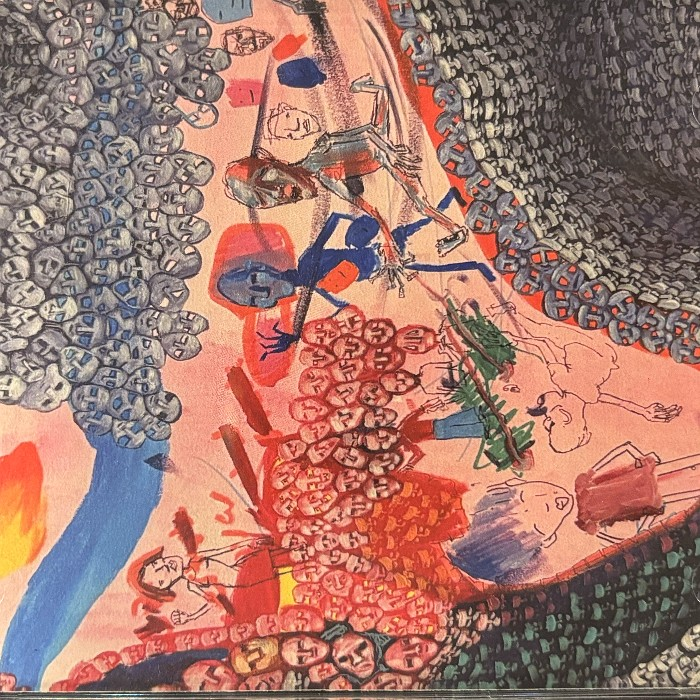
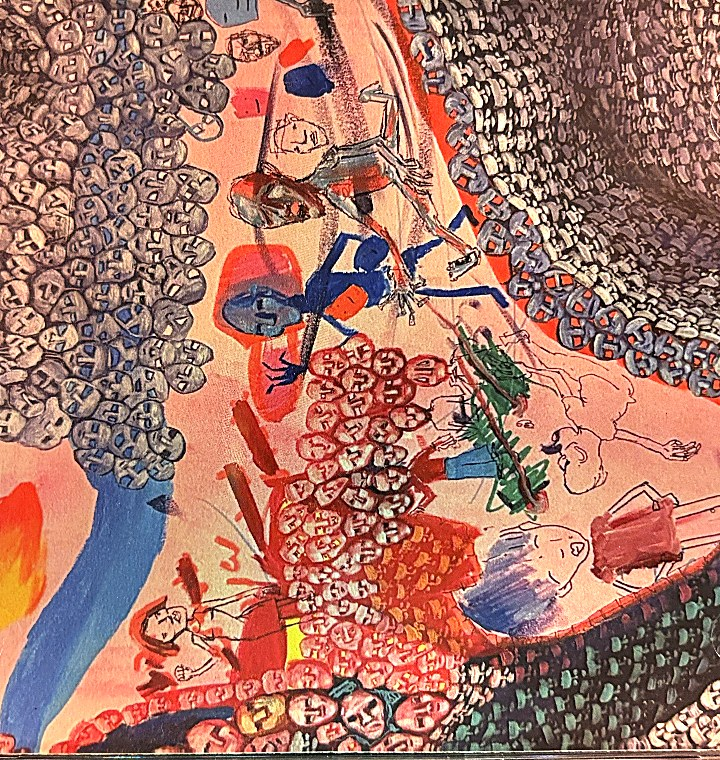
The CD stands up, the sleeve is sharp, and the mounds are sand again
- A CD case is 125 mm across by 142 mm TALL. Having those the other way
  round laid the case on its side and turned both faces of artwork through
  ninety degrees. Both inserts are upright now, at the aspect measured off
  the photographs.
- The photographs are shot through the case's own clear lid, so each
  carried a broad sheen across it and the sleeve rendered as a washed-out
  smear. Dividing each by a heavily blurred copy of itself takes the
  low-frequency lighting out and leaves the ink; with a gentle S-curve and
  an unsharp pass on top the artwork reads as it does in the photo.
- The mounds went too far into brown. Back to warm tan against the beach's
  cold blue -- turned sand, which is what they are.

diff --git a/models/cd-case.js b/models/cd-case.js
@@ -16,7 +16,10 @@ import * as THREE from 'three';
  *
  * Metres, +Y up, +Z out of the front face. */
 
-const W = 0.142, H = 0.125, D = 0.0104;      // the real case, to the millimetre
+/* A CD case STANDS UP: 125 mm across by 142 mm tall by 10 mm thick. This
+ * had them the other way round, which laid the whole thing on its side and
+ * turned both faces of artwork through ninety degrees. */
+const W = 0.125, H = 0.142, D = 0.0104;      // the real case, to the millimetre
 
 // --------------------------------------------------------------- textures
 const loader = new THREE.TextureLoader();
@@ -71,15 +74,15 @@ export function makeCdCase() {
    * the scene's own lighting as well left the sleeve muddy at night and
    * washed out under the examine lamps. `MeshBasicMaterial` shows the
    * picture as it is, which is what you want of a thing held up to a face. */
-  const booklet = 0.1195;                      // a CD booklet is 120 mm square
-  const front = new THREE.Mesh(new THREE.PlaneGeometry(booklet, booklet),
+  // both inserts upright, at the aspect measured off the photographs
+  const front = new THREE.Mesh(new THREE.PlaneGeometry(0.1185, 0.1251),
     new THREE.MeshBasicMaterial({ map: art('assets/cd-front.jpg') }));
-  front.position.z = t - 0.0011;
+  front.position.set(0.0018, 0.0026, t - 0.0011);
   g.add(front);
 
-  const back = new THREE.Mesh(new THREE.PlaneGeometry(W - 0.004, H - 0.004),
+  const back = new THREE.Mesh(new THREE.PlaneGeometry(0.1205, 0.1305),
     new THREE.MeshBasicMaterial({ map: art('assets/cd-back.jpg') }));
-  back.position.z = -t + 0.0012; back.rotation.y = Math.PI;
+  back.position.set(-0.0018, 0.0022, -t + 0.0012); back.rotation.y = Math.PI;
   g.add(back);
 
   // --- the tray the disc sits in, seen through the clear lid -------------
@@ -121,9 +124,9 @@ export function makeCdCase() {
     new THREE.MeshBasicMaterial({ map: spineTex }));
   spine.position.x = -W / 2 + 0.0011;
   g.add(spine);
-  for (let i = 0; i < 7; i++) {
-    const tooth = new THREE.Mesh(new THREE.BoxGeometry(0.0026, 0.0075, D * 0.7), black);
-    tooth.position.set(-W / 2 + 0.0012, -H / 2 + 0.012 + i * 0.0165, 0);
+  for (let i = 0; i < 8; i++) {
+    const tooth = new THREE.Mesh(new THREE.BoxGeometry(0.0026, 0.0072, D * 0.7), black);
+    tooth.position.set(-W / 2 + 0.0012, -H / 2 + 0.013 + i * 0.0165, 0);
     g.add(tooth);
   }
 

diff --git a/main.js b/main.js
@@ -5866,9 +5866,9 @@ function finishExtraction() {
  * differently, which is most of what makes it read as loose), the colour
  * is earth rather than sand, and the rim is broken by clods lying round
  * it rather than by a circle drawn on the beach. */
-const moundMat = new THREE.MeshStandardMaterial({ color: 0x6d5c47, roughness: 1, flatShading: true, emissive: 0x241d13 });
-const clodMat = new THREE.MeshStandardMaterial({ color: 0x554839, roughness: 1, flatShading: true, emissive: 0x150f0a });
-const clodMatDk = new THREE.MeshStandardMaterial({ color: 0x42382c, roughness: 1, flatShading: true, emissive: 0x0f0b07 });
+const moundMat = new THREE.MeshStandardMaterial({ color: 0x9c8862, roughness: 1, flatShading: true, emissive: 0x37301d });
+const clodMat = new THREE.MeshStandardMaterial({ color: 0x8d7a58, roughness: 1, flatShading: true, emissive: 0x2c2617 });
+const clodMatDk = new THREE.MeshStandardMaterial({ color: 0x776748, roughness: 1, flatShading: true, emissive: 0x211c12 });
 function lumpyDome(r, hy, seed) {
   const g = new THREE.SphereGeometry(r, 11, 6, 0, Math.PI * 2, 0, Math.PI * 0.5);
   g.scale(1, hy, 1);

diff --git a/CLAUDE.md b/CLAUDE.md
@@ -688,9 +688,15 @@ happen to dig — the same rule the glowstick's `mounds[0]` uses).
 clear lid and shell, black tray, the disc, hinge teeth down the spine, and
 the inserts front and back. **The sleeve is the OWNER'S OWN ARTWORK** —
 photographed, then rectified out of the three reference shots by a
-four-point perspective transform (`assets/cd-front.jpg` square, as a booklet
-is; `cd-back.jpg` wider than tall; `cd-spine.jpg` a strip rotated onto the
-edge). Two things that matter: the inserts take **`MeshBasicMaterial`**,
+four-point perspective transform. **A CD case STANDS UP** — 125 mm across
+by 142 mm tall — and having those the other way round laid the whole thing
+on its side and turned both faces of artwork through ninety degrees; both
+inserts are upright, at the aspect measured off the photographs. The
+photographs are also shot THROUGH the case's own lid, so each carries a
+broad sheen: dividing by a heavily blurred copy of itself takes the
+low-frequency lighting out and leaves the ink, and without that step the
+sleeve is a washed-out smear rather than the drawing. Two more things
+matter: the inserts take **`MeshBasicMaterial`**,
 because a photograph already carries the light it was shot in and lighting
 it twice left the sleeve muddy at night and chalk under the examine lamps;
 and the lid sits at opacity 0.11, because at 0.30 with full clearcoat the
